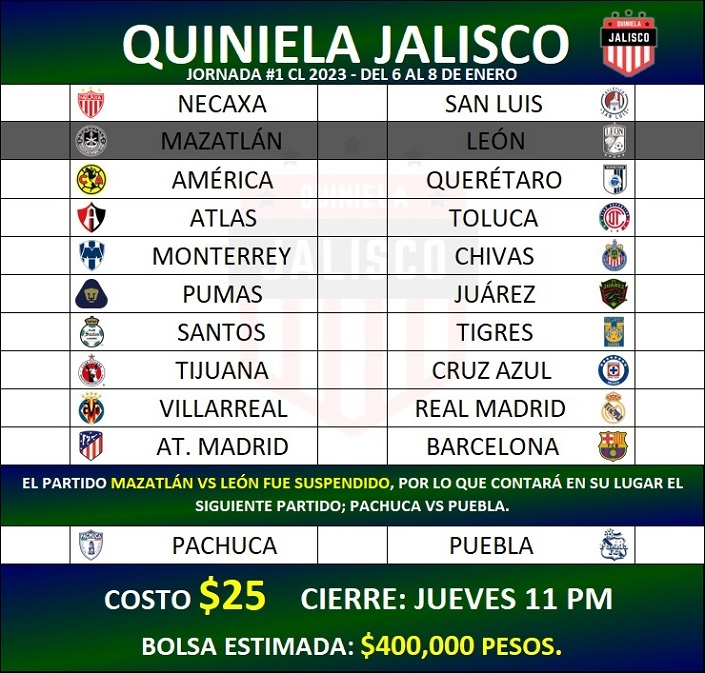
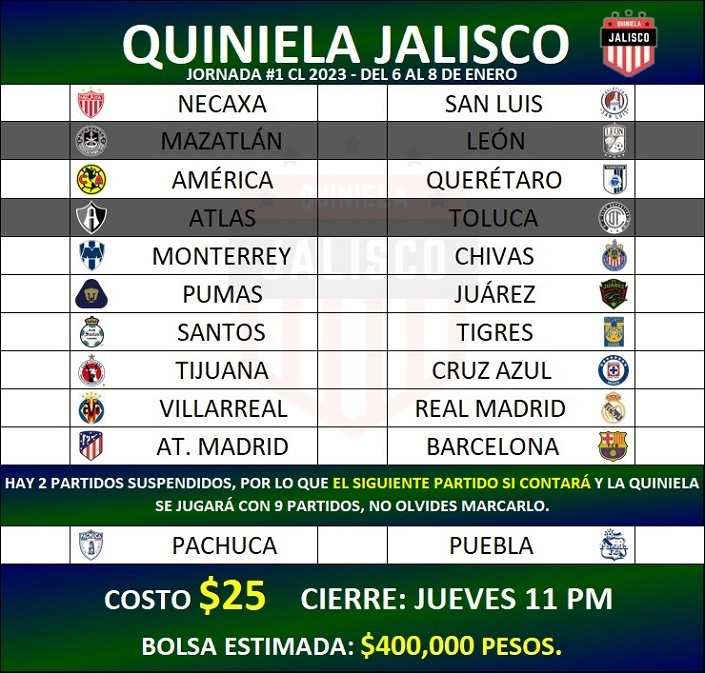
Partidos susp 2

Changed region(s): [[0.0, 0.2808, 0.9986, 0.3744], [0.0, 0.6865, 0.9986, 0.7801]]

diff --git a/11/styles11.css b/11/styles11.css
@@ -285,7 +285,7 @@ h6{
 }
 
 #bolsatxt:before{
-    content:'Mazatlán vs León fue suspendido, el \A partido ';
+    content:'Hay 2 partidos suspendidos, por lo \A que ';
     white-swhite;
     white-space:pre;
     font-style: italic;

diff --git a/var.js b/var.js
@@ -1,6 +1,6 @@
 var tel  = "5213317816346";
 var telm = "5213325365796";
-var suspIndex  = [1];
+var suspIndex  = [1,3];
 var suspIndexm = null;
 var price  = 25;
 var pricem = 20;
